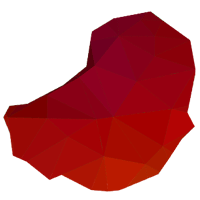
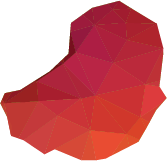
testing motion path for asteroids

diff --git a/game/Game.js b/game/Game.js
@@ -6,8 +6,8 @@ let timeElapsedBeforeLanding = 10, globalTime = 0, frames = [ 1, 0, 5], penalty 
 
 LunarAdventure.Game.prototype = {
 
-	create: function() {
 
+	create: function() {
 		//update the game count
 		fetch('/incrementGame/SinglePlayer', {
 			method: 'PUT'
@@ -31,6 +31,37 @@ LunarAdventure.Game.prototype = {
     this.toggle = true;
     this.lifeCounter = 3;
     this.time.advancedTiming = true;
+
+
+// CREATE PATH
+    this.bmd = null;
+  // points arrays - one for x and one for y
+    this.points = {
+      'x': [-100, 500, gameWidth +100],
+      'y': [-100, 300, -100]
+    };
+
+    // motion path
+    this.increment = 3 / gameWidth;
+    this.i = 0;
+    this.timer1Stopped = true;
+    this.timer1 = null;
+
+    // Somewhere to draw to
+    this.bmd = this.add.bitmapData(gameWidth, gameHeight);
+    this.bmd.addToWorld();
+    // Draw the path
+    for (var j = 0; j < 1; j += this.increment) {
+      var posx = this.math.catmullRomInterpolation(this.points.x, j);
+      var posy = this.math.catmullRomInterpolation(this.points.y, j);
+      this.bmd.rect(posx, posy, 3, 3, 'rgba(245, 0, 0, 1)');
+    }
+
+    // follow the motion path by using the plot function
+    test = this.add.sprite(0, 0, "tinyObstacle");
+    test.anchor.setTo(0.5, 0.5);
+
+
 
     keyboardArray = ['Q','W','E','R','T','Y','U','I','O','P','A','S','D','F','G','H','J','K','L','Z','X','C','V','B','N','M'];
 
@@ -275,8 +306,6 @@ LunarAdventure.Game.prototype = {
 		this.world.bringToTop(rotateRightUI);
 		this.world.bringToTop(rotateLeftUI);
 
-		// generate waves of obstacles
-		this.sendObstacleWaves();
 	},
 
 	createTimer: function() {
@@ -299,6 +328,22 @@ LunarAdventure.Game.prototype = {
 		//make time text globally accessible
 		globalTime = me.timeLabel.text;
 	},
+
+  plotLeft: function () {
+
+    var posx = this.math.catmullRomInterpolation(this.points.x, this.i);
+    var posy = this.math.catmullRomInterpolation(this.points.y, this.i);
+    test.x = posx;
+    test.y = posy;
+    this.i += this.increment;
+    if (posx > gameWidth) {
+      this.timer1.stop();
+      this.timer1.destroy();
+      this.i = 0;
+      this.timer1Stopped = true;
+    }
+
+  },
 
 	// landing pad rotation functions
 	rotateLandingPadRight: function(radius, startX, startY){
@@ -470,83 +515,7 @@ LunarAdventure.Game.prototype = {
 		}
 	},
 
-	generateSmallObstacles: function(amount, startX, startY, velocityX, velocityY) {
-		for (var i = 0; i < amount; i++) {
-			var obstacle = smallObstacles.create(startX, startY, 'smallObstacle', this.rnd.pick(frames));
-			obstacle.body.setCircle(25);
-			obstacle.body.setCollisionGroup(obstaclesCollisionGroup);
-			obstacle.body.collides([obstaclesCollisionGroup, shipCollisionGroup]);
 
-			this.game.physics.p2.enable(obstacle, false);
-			obstacle.body.static = true;
-			obstacle.body.velocity.y = velocityY;
-			obstacle.body.velocity.x = velocityX;
-		}
-	},
-
-	generateTinyObstacles: function(amount, startX, startY, velocityX, velocityY) {
-		for (var i = 0; i < amount; i++) {
-			var obstacle = smallObstacles.create(startX, startY, 'tinyObstacle', this.rnd.pick(frames));
-			obstacle.body.setCircle(8);
-			obstacle.body.setCollisionGroup(obstaclesCollisionGroup);
-			obstacle.body.collides([obstaclesCollisionGroup, shipCollisionGroup]);
-
-			this.game.physics.p2.enable(obstacle, false);
-			obstacle.body.static = true;
-			obstacle.body.velocity.y = velocityY;
-			obstacle.body.velocity.x = velocityX;
-		}
-	},
-
-	generateMediumObstacles: function(amount, startX, startY, velocityX, velocityY) {
-		for (var i = 0; i < amount; i++) {
-				var obstacle = mediumObstacles.create(startX, startY, 'mediumObstacle', this.rnd.pick(frames));
-				obstacle.body.setCircle(52);
-				obstacle.body.setCollisionGroup(obstaclesCollisionGroup);
-				obstacle.body.collides([obstaclesCollisionGroup, shipCollisionGroup]);
-
-				this.game.physics.p2.enable(obstacle, false);
-				obstacle.body.static = true;
-				obstacle.body.velocity.y = velocityY;
-				obstacle.body.velocity.x = velocityX;
-		}
-	},
-
-	generateLargeObstacles: function(amount, startX, startY, velocityX, velocityY) {
-		for (var i = 0; i < amount; i++) {
-			var obstacle = largeObstacles.create(startX, startY, 'largeObstacle', this.rnd.pick(frames));
-
-			obstacle.body.setCircle(180);
-			obstacle.body.setCollisionGroup(obstaclesCollisionGroup);
-			obstacle.body.collides([obstaclesCollisionGroup, shipCollisionGroup]);
-
-			this.game.physics.p2.enable(obstacle, false);
-			obstacle.body.static = true;
-			obstacle.body.velocity.y = velocityY;
-			obstacle.body.velocity.x = velocityX;
-		}
-	},
-
-	sendObstacleWaves: function() {
-		waveOne = this.game.time.events.loop(8000, () => {
-			this.generateTinyObstacles(1, this.world.width + Math.random() * 100, 400 + Math.random() * 300, -40 + Math.random() * -60, -20 + Math.random() * -50
-			);
-			this.generateTinyObstacles(1, Math.random() * -100, 400 + Math.random() * 300, 40 + Math.random() * 60, -20 + Math.random() * -50
-			);
-		});
-		waveTwo = this.game.time.events.loop(12000, () => {
-			this.generateSmallObstacles(1, this.world.width + Math.random() * 100, 100 + Math.random() * 400, -60 + Math.random() * -50, -30 + Math.random() * -30
-			);
-			this.generateSmallObstacles(1, Math.random() * -100, + Math.random() * 400,  Math.random() * 50, + Math.random() * -30
-			);
-			this.generateMediumObstacles(1, this.world.width + Math.random() * 100, 200 + Math.random() * 400, -60 + Math.random() * -100, -20 + Math.random() * -30);
-			this.generateMediumObstacles(1, Math.random() * -100, + Math.random() * 400,  Math.random() * 100, + Math.random() * -30);
-		});
-		waveThree = this.game.time.events.loop(36000, () => {
-			this.generateLargeObstacles(1, this.world.width + 250, 400 + Math.random() * 200, -80, -40 + Math.random() * -20);
-			this.generateLargeObstacles(1, -1000, 800 + Math.random() * 200, 80, -40 + Math.random() * -20);
-		});
-	},
 
 	gameOverCrash: function() {
 			successGlobalTime = globalTime;
@@ -558,6 +527,15 @@ LunarAdventure.Game.prototype = {
 	},
 
 	update: function() {
+
+    // test motion path
+    if (this.timer1Stopped) {
+      this.timer1Stopped = false;
+      this.timer1 = this.game.time.create(true);
+      this.timer1.loop(.01, this.plotLeft, this);
+      this.timer1.start();
+    }
+      test.rotation += 0.02;
 
     if(this.invulnerable){
       if(this.toggle){
